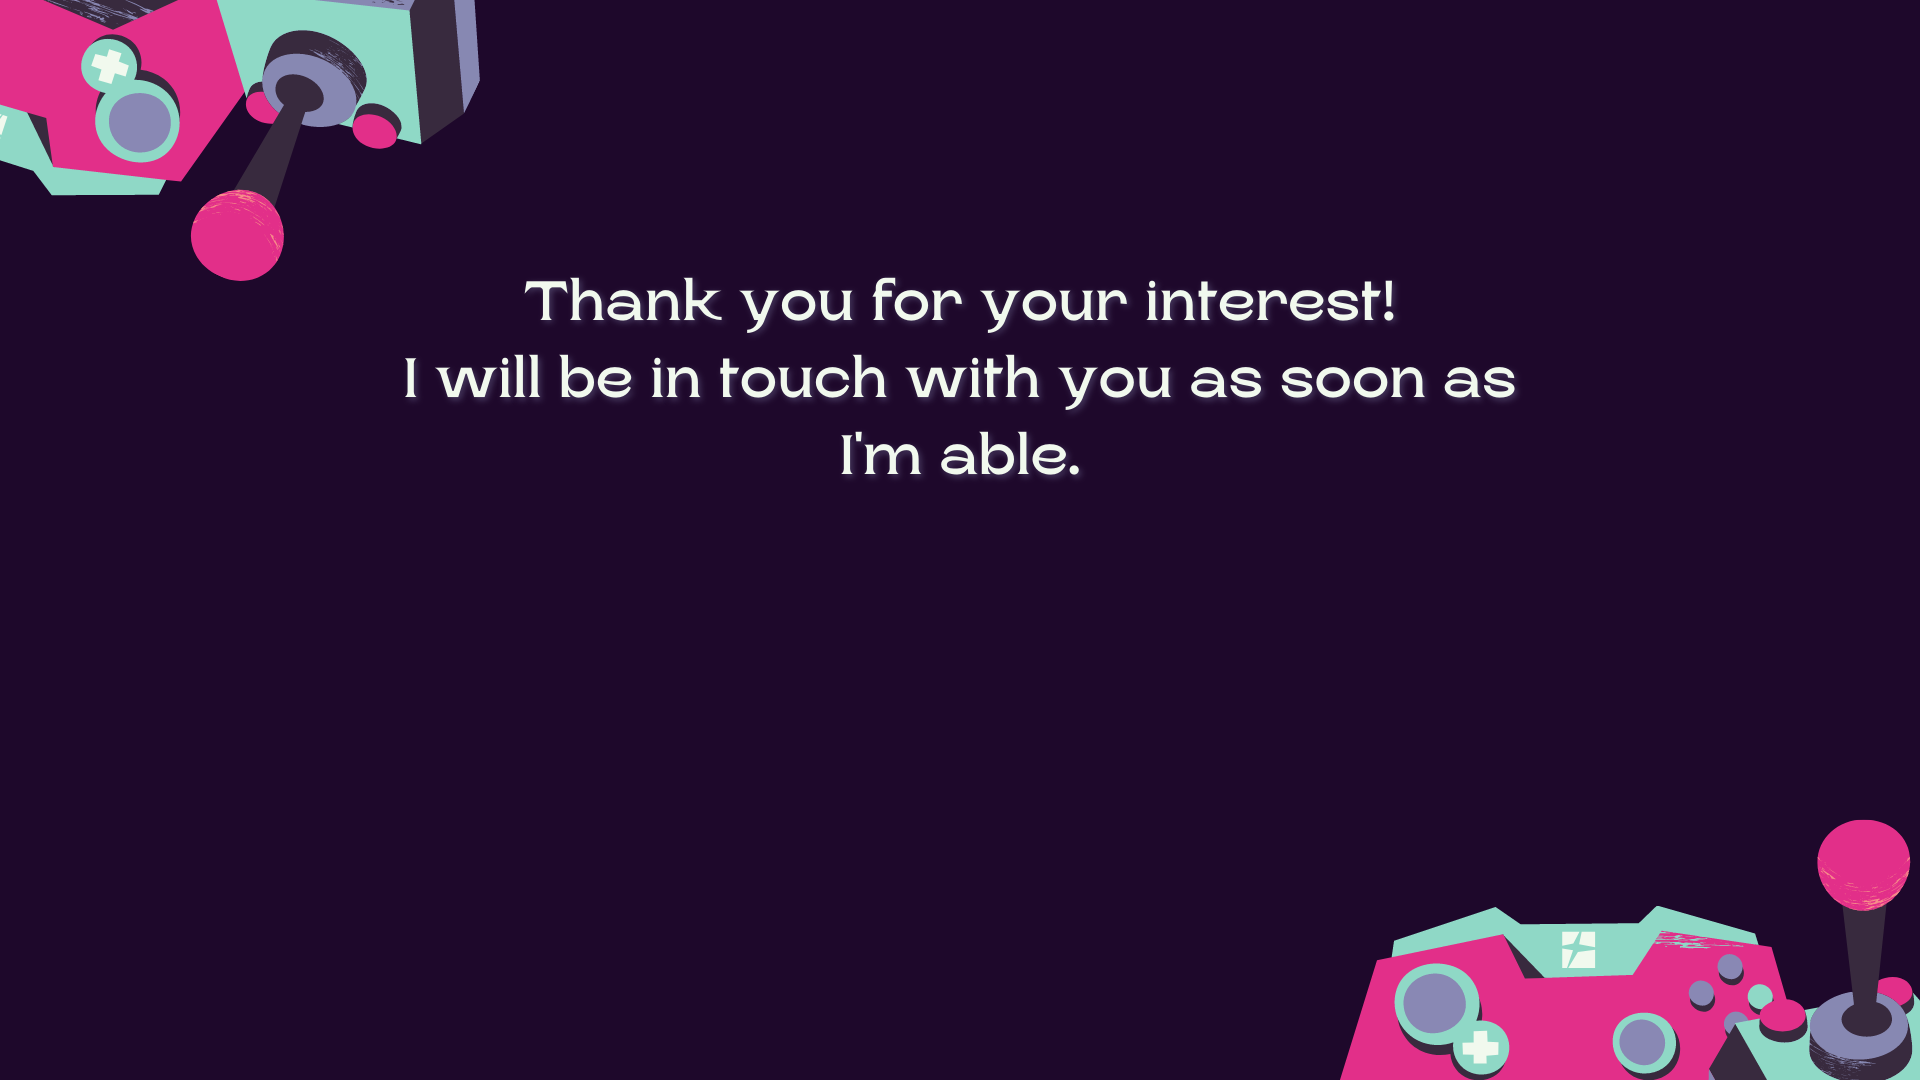
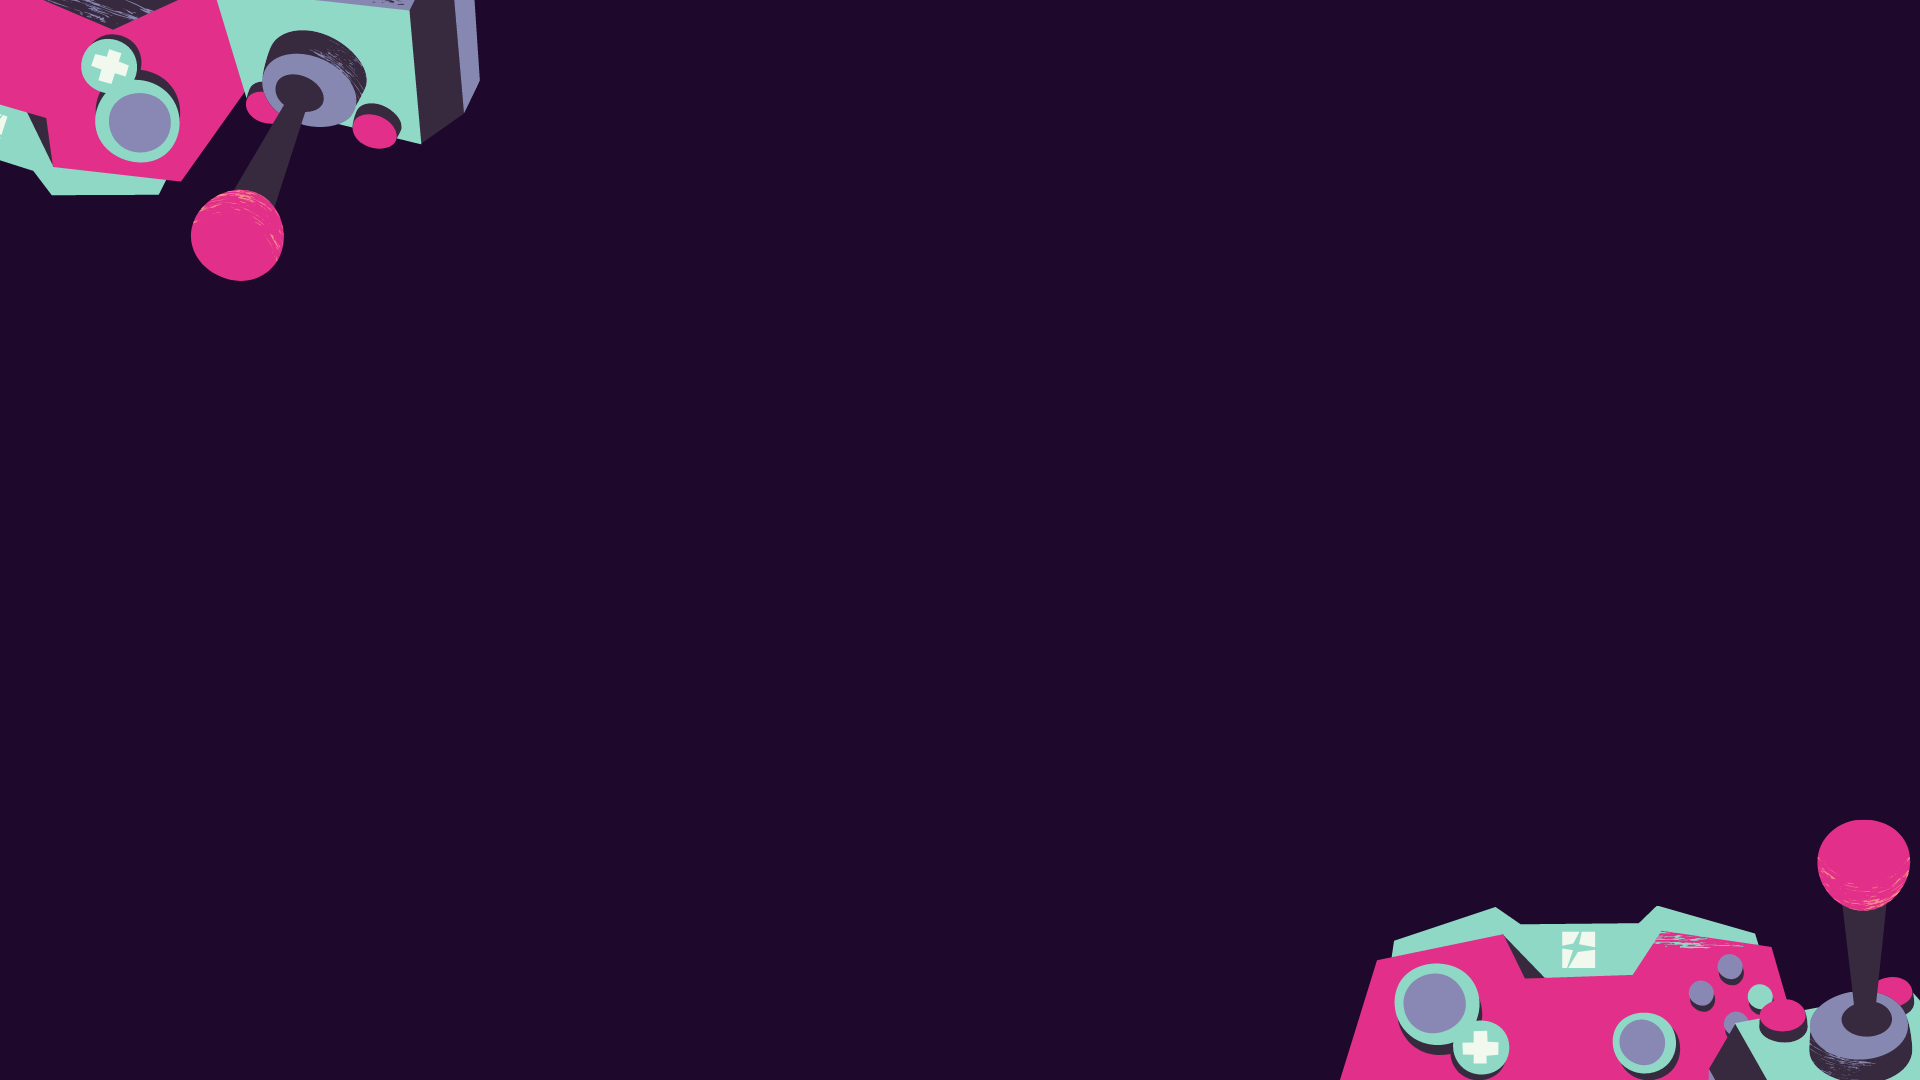
Updated page CSS and layout
Added background image PNG and centered text and link on top.
Changed color palette and fonts.
Made more responsive.

Changed region(s): [[0.2812, 0.2444, 0.7188, 0.3056], [0.1875, 0.3361, 0.8125, 0.3667], [0.4375, 0.3972, 0.5625, 0.4583]]

diff --git a/src/styles.css b/src/styles.css
@@ -1,46 +1,74 @@
 :root {
-    --background: #f4f9f4;
-    --secondary-color: #74b49b;
-    --headers: #5c8d89;
+    --background: #1e082b;
+    --secondary-color: #8fd8c6;
+    --headers: #e22f89;
     --buttons: #a7d7c5;
-    --font-family: 'Lobster', cursive;
-    --text: 'Anek Gurmukhi', sans-serif;
+    --font-family: 'VT323', monospace;
+    --text: 'Saira', sans-serif;
 }
 
 body {
     font-family: var(--text); 
     max-width: auto;
     min-width: 300px;
-    height: 100%;
     background-color: var(--background);
     text-align: center;
-    margin-top: 150px;
+    height: 450px;
+    padding-left: auto;
+
+    background-image: url('./game-icon.png');
+    background-repeat: no-repeat;
+    color: var(--background);
+    background-size: 65%;
+    background-position: 50%;
 }
+
+@media (max-width: 1500px) {
+    body {
+    background-size: 80%;
+    }
+
+    p {
+    font-size: 13px;
+    }
+} 
+
+@media (max-width: 550px) {
+    body {
+    background-image: none;
+    }
+
+    p {
+    font-size: 15px;
+    }
+} 
+
+.header-background {
+    margin-top:200px;
+}
+
 
 h1 {
     color: var(--headers);
     font-family: var(--font-family);
-}
-
-h2 {
-    color: var(--headers);
-    font-family: var(--font-family);
+    font-size: 65px;
 }
 
 p {
     font-weight: bold;
+    color:white;
+    font-size: 23px;
 }
 
 a {
-    display: inline-block;
     background-color: var(--buttons);
-    border-radius: 10px;
-    border: 4px double var(--headers);
+    border-radius: 14px;
+   border: none;
     color: white ;
     text-align: center;
     font-size: 15px;
     font-weight: bold;
-    padding: 5px 0;
+    padding: 10px 10px;
     width: 200px;
     transition: all 0.5s;
     cursor: pointer;

diff --git a/index.html b/index.html
@@ -10,9 +10,9 @@
     integrity="sha384-1BmE4kWBq78iYhFldvKuhfTAU6auU8tT94WrHftjDbrCEXSU1oBoqyl2QvZ6jIW3" 
     crossorigin="anonymous"
     />
-    <link rel="preconnect" href="https://fonts.googleapis.com" crossorigin/>
+    <link rel="preconnect" href="https://fonts.googleapis.com">
     <link rel="preconnect" href="https://fonts.gstatic.com" crossorigin>
-    <link href="https://fonts.googleapis.com/css2?family=Gruppo&family=Lobster&display=swap" rel="stylesheet">
+    <link href="https://fonts.googleapis.com/css2?family=Press+Start+2P&family=Saira:wght@300&family=VT323&display=swap" rel="stylesheet">
     <link rel="stylesheet" href="src/styles.css"/>
     
     <script 
@@ -28,10 +28,12 @@
     <title>Thank You!</title>
 </head>
 <body>
-    <h1>Thank you!</h1>
-    <p>Your message was successfully sent, and I'll get back to you as soon as I'm able.</p>
-    <h2>Happy coding!</h2>
-
-    <a href="https://symphonious-monstera-fab358.netlify.app/contact.html" class="mt-4">Back to the previous page</a>
+    <div class="header-background">
+        <h1>Thank you!</h1>
+        <p>Your message was successfully sent and 
+        </br>
+        I'll get back to you as soon as I'm able.</p>
+        <a href="https://romiecastilleja.netlify.app/" class="mt-5">Back To Previous Page</a>
+    </div>
 </body>
 </html>
